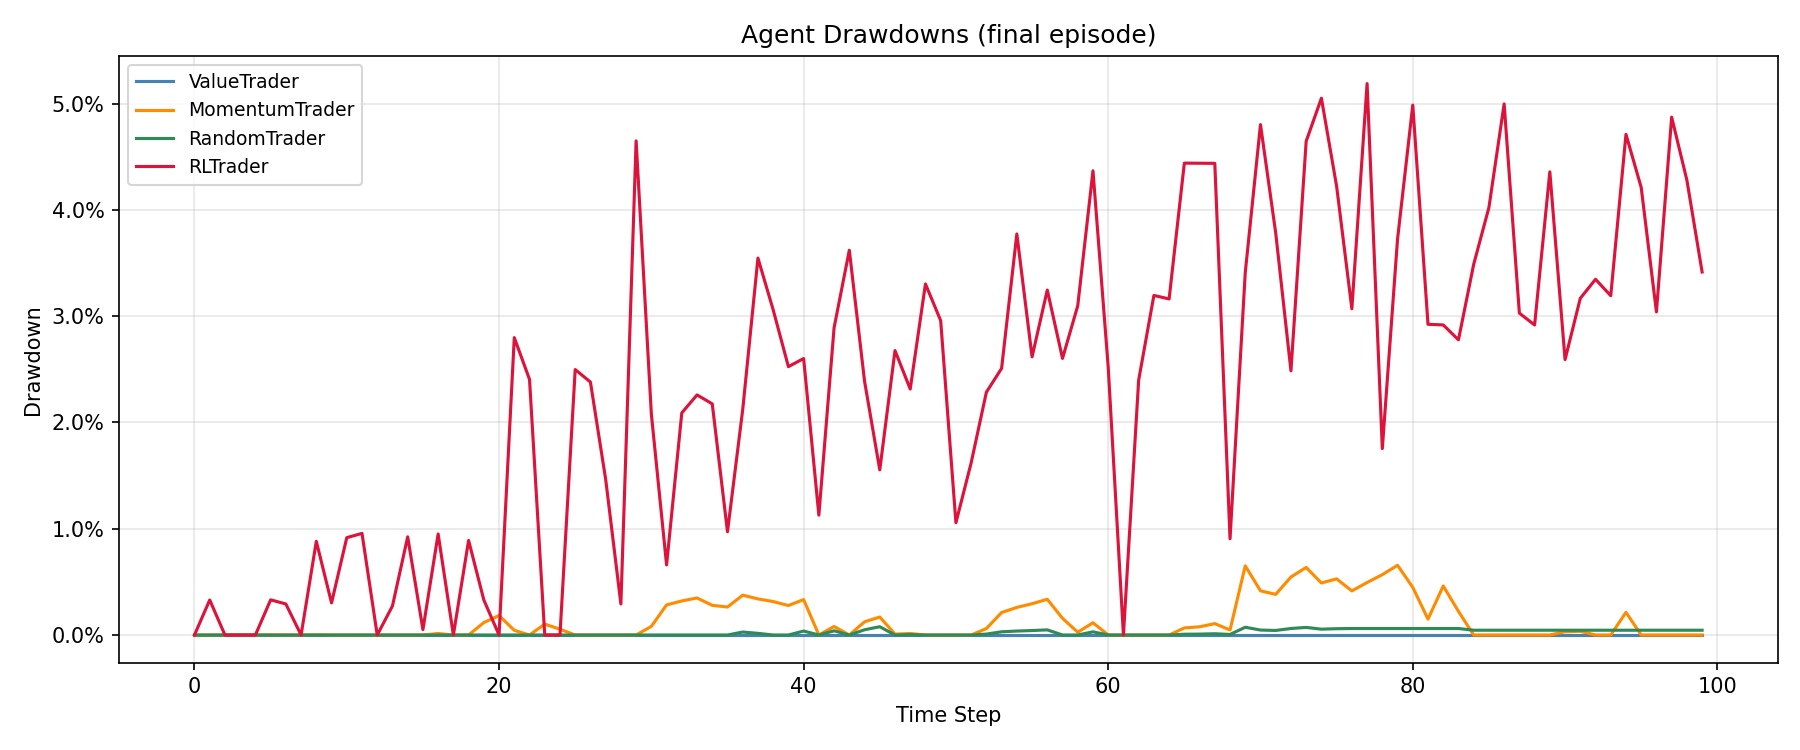
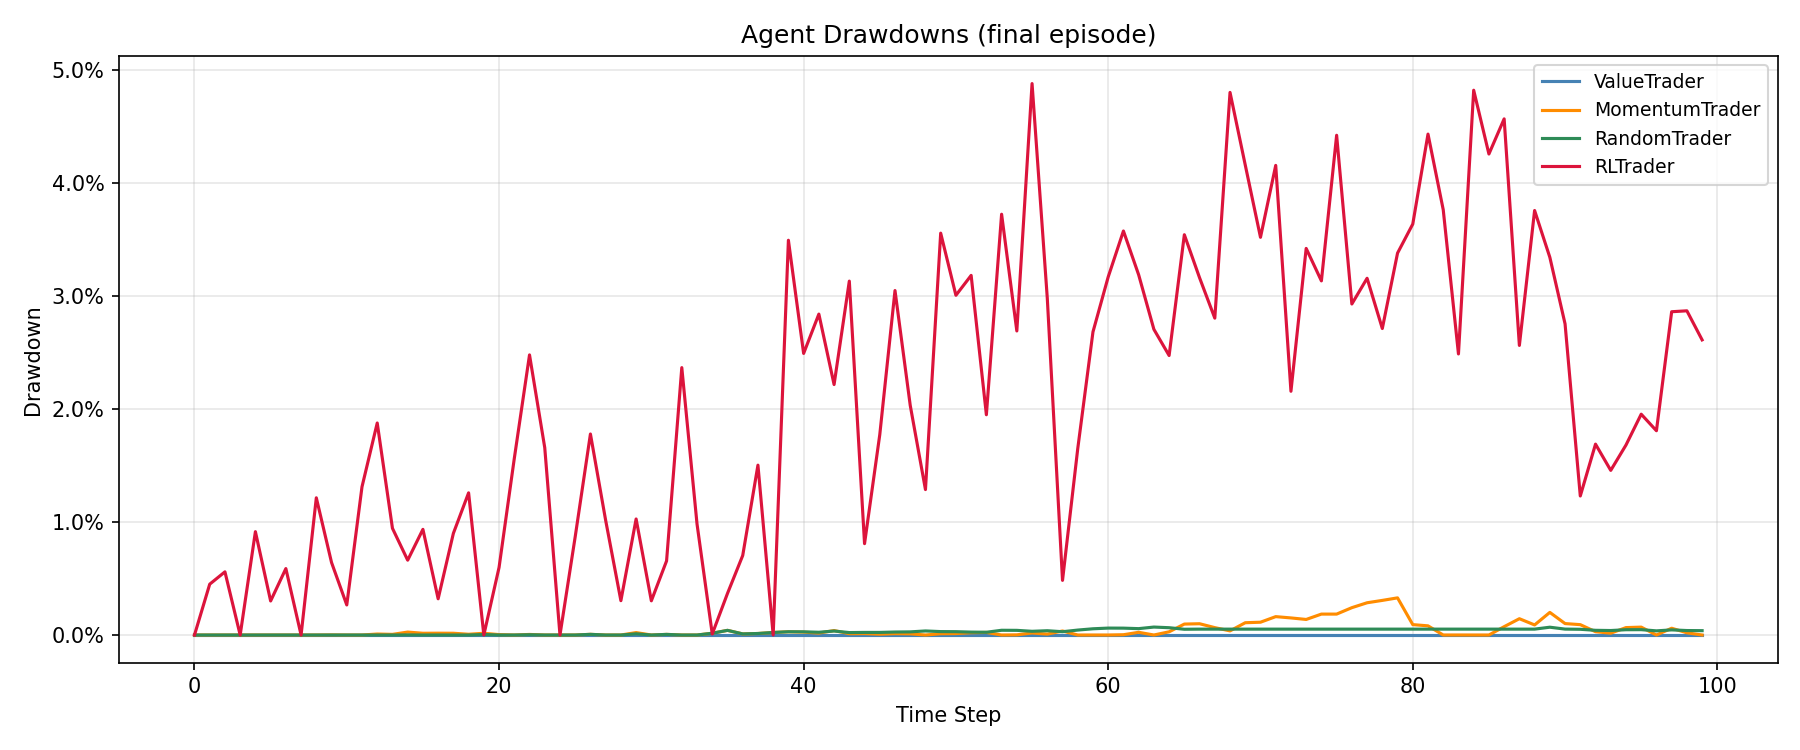
Add detailed drawdown and turnover scoring to reward function
Introduces fractional drawdown tracking and penalties, turnover efficiency scoring, and stability bonuses within `simulation.py` to refine agent behavior.

Replit-Commit-Author: Agent
Replit-Commit-Session-Id: 3826bf3c-e3fd-4317-b321-61e418fea702
Replit-Commit-Checkpoint-Type: full_checkpoint
Replit-Commit-Event-Id: ee3b317b-eadf-45c7-a143-687f370aa7bf
Replit-Helium-Checkpoint-Created: true

diff --git a/project/simulation/simulation.py b/project/simulation/simulation.py
@@ -99,6 +99,12 @@ class Simulation:
         self.equity_peak = None
         self.equity_history = []
 
+        # Fractional drawdown [0, 1] for reward-refinement penalties.
+        # Separate from state.drawdown (absolute $) used in risk_adj.
+        self.frac_drawdown      = 0.0
+        self.prev_frac_drawdown = 0.0
+        self.prev_dd_flag       = 0
+
         # --- Multi-timeframe trend windows --------------------------------
         self.trend_windows = [5, 20, 50]
         # price_history (defined in __init__ above) stores raw prices per step
@@ -957,6 +963,27 @@ class Simulation:
                         self.equity_peak = new_equity
                     state.drawdown = max(0.0, self.equity_peak - new_equity)
 
+                    # Fractional drawdown [0, 1] for reward shaping
+                    self.prev_frac_drawdown = self.frac_drawdown
+                    self.frac_drawdown = max(
+                        0.0, 1.0 - (new_equity / max(self.equity_peak, 1e-6))
+                    )
+
+                    # Drawdown severity feedback (transition-only)
+                    _dd_flag = 0
+                    if self.frac_drawdown > 0.20: _dd_flag = 1
+                    if self.frac_drawdown > 0.35: _dd_flag = 2
+                    if _dd_flag != self.prev_dd_flag:
+                        if _dd_flag == 1:
+                            _ddmsg = "Drawdown warning: portfolio down more than 20% from peak."
+                        elif _dd_flag == 2:
+                            _ddmsg = "Severe drawdown: portfolio down more than 35%."
+                        else:
+                            _ddmsg = "Drawdown normalized."
+                        self.macro_messages.append(_ddmsg)
+                        print(_ddmsg)
+                    self.prev_dd_flag = _dd_flag
+
                     # --- Rolling equity-return volatility -----------------
                     # Computed over the last vol_window 1-step equity returns.
                     # Returns < 2 data points → vol is zero (no variance yet).
@@ -1073,6 +1100,27 @@ class Simulation:
                             if step_return > 0:
                                 reward += 0.001 * step_return
                             reward -= 0.0005 * turnover
+
+                        # --- Drawdown penalties ---------------------------
+                        # 1. Depth penalty: discourage deep drawdowns
+                        reward -= 2.0 * self.frac_drawdown
+                        # 2. Acceleration penalty: punish rapidly worsening DDs
+                        _dd_delta = self.frac_drawdown - self.prev_frac_drawdown
+                        if _dd_delta > 0:
+                            reward -= 5.0 * _dd_delta
+
+                        # --- Turnover efficiency -------------------------
+                        # High churn with low return → penalise
+                        if turnover > 0.02 and abs(step_return) < 0.002:
+                            reward -= 0.5 * turnover
+                        # Low churn with positive return → reward stability
+                        if turnover < 0.01 and step_return > 0:
+                            reward += 0.1 * step_return
+
+                        # --- Stability bonus ------------------------------
+                        # Nudge agent toward maintaining gains near new highs
+                        if new_equity >= 0.995 * (self.equity_peak or new_equity):
+                            reward += 0.001
 
                         # --- Critic: N-step replay buffer update ----------
                         done = (current_step == SIMULATION_STEPS - 1)
